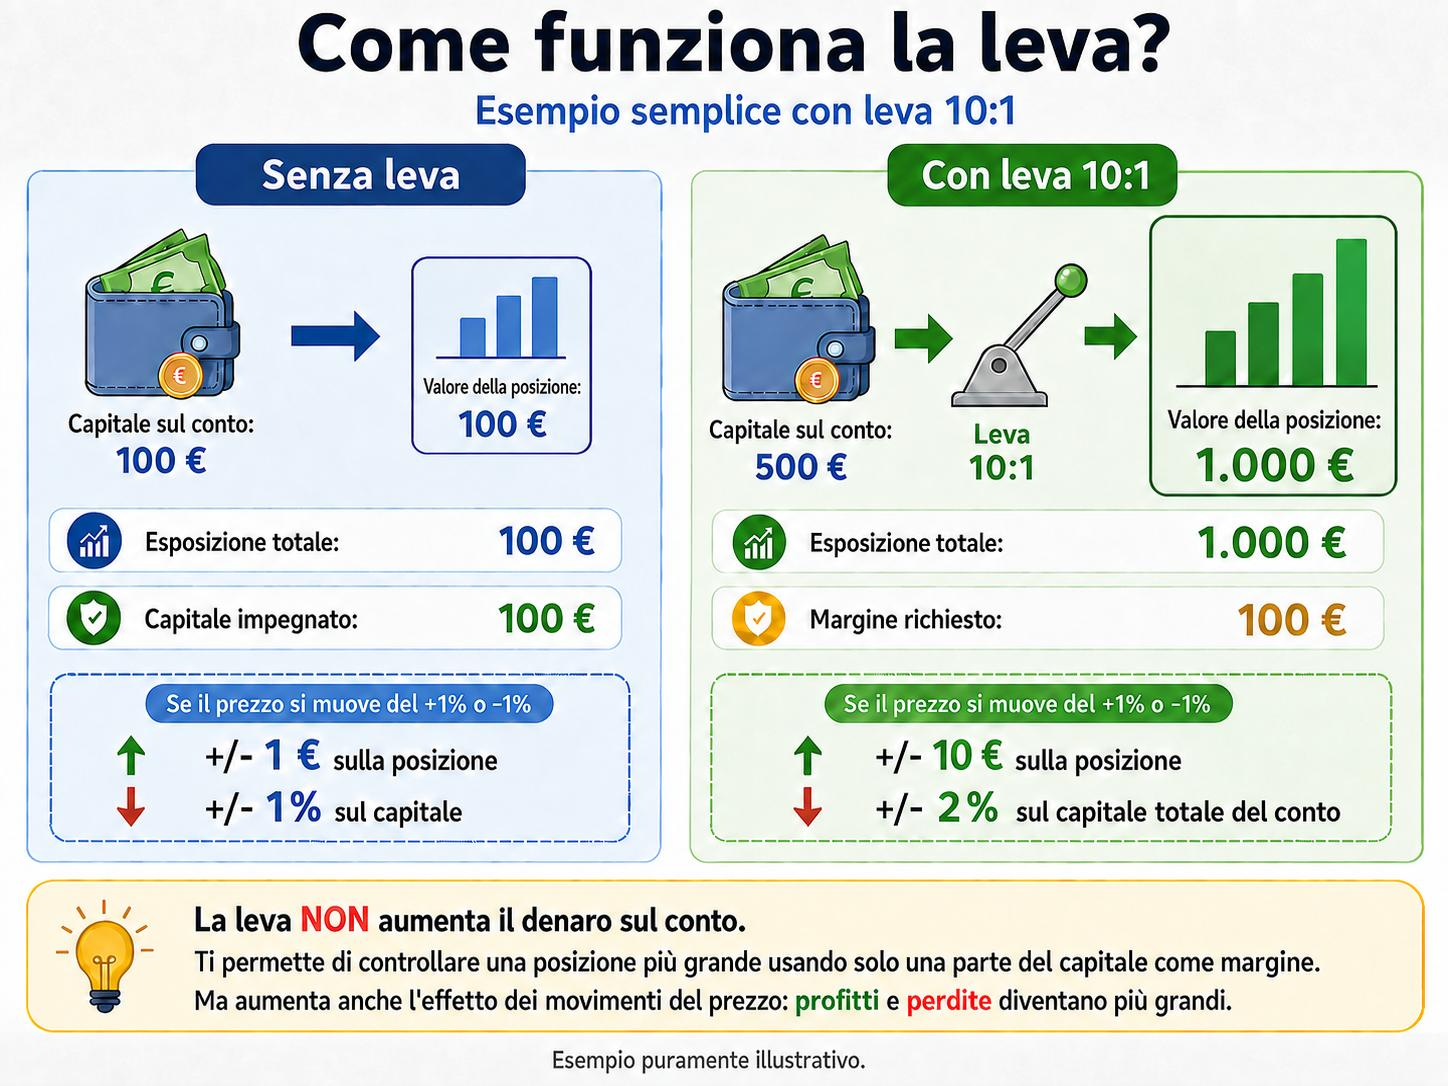
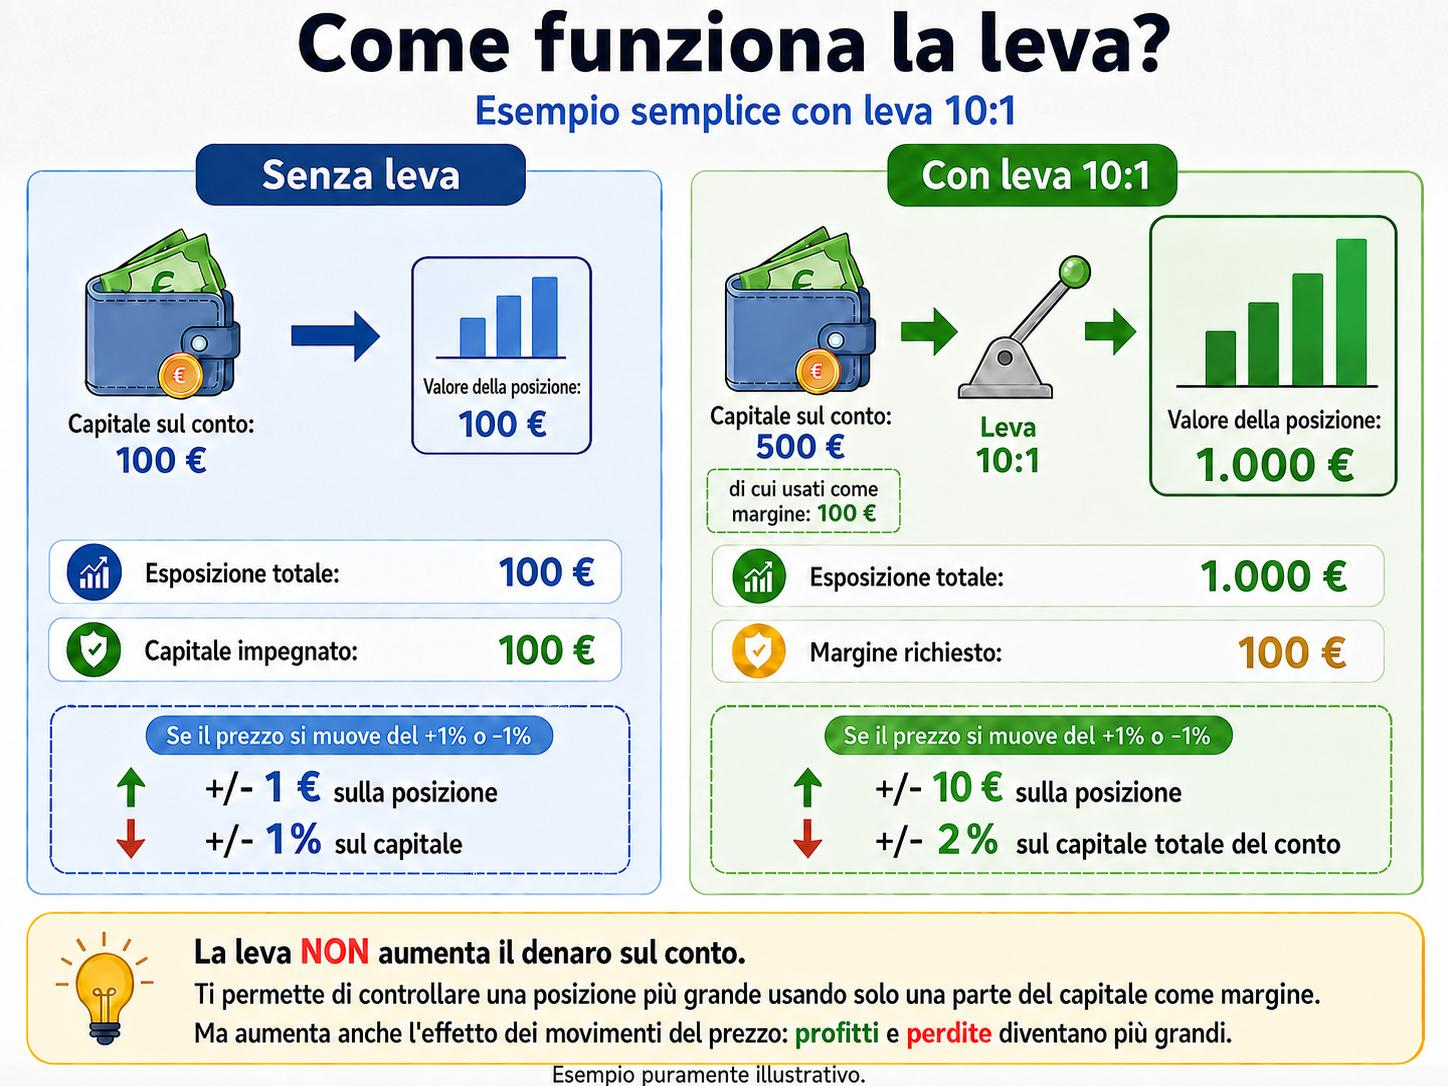
controlli e immagine leva

diff --git a/src/data/introExercises.js b/src/data/introExercises.js
@@ -61,32 +61,28 @@ cioè i massimi da cui si creano **nuovi minimi più bassi dei precedenti.**
   **5-Cosa puoi fare in una piattaforma come TradingView?** 👉 Nell'immagine: 3 ambienti.
     
       📊 **Osservare e analizzare:**
-Su una piattaforma grafica come TradingView puoi vedere il prezzo e disegnare un’entrata, uno Stop Loss o un Take Profit sul grafico, ma non significa aver aperto realmente un’operazione.
+Su una piattaforma grafica come TradingView puoi vedere il prezzo e disegnare un’entrata o un livello, ma non stai operando realmente.
 
  **Fare pratica in simulazione**
 Con un ambiente di paper trading/simulazione puoi invece provare ad aprire e chiudere operazioni utilizzando **denaro virtuale.** 
+Ad esempio, puoi utilizzare il Paper Trading di TradingView o un **conto demo** su una piattaforma di trading.
 
       **🏦 E quando vuoi operare realmente: il Broker**
-
-      Il broker è l’intermediario che ti permette di accedere al mercato con un conto di trading.
+      Il broker è una **società finanziaria che fa da intermediario fra te e il mercato**, permettendoti di accedere al mercato con un conto di trading. 
 Quando invii un ordine di acquisto o vendita, il broker ne gestisce l’esecuzione.
-
-Operare realmente significa che:
-1. apri un conto presso un broker e utilizzi capitale reale;
-2. attraverso una piattaforma invii un ordine di acquisto o vendita: se viene eseguito, hai una posizione reale e il suo risultato influirà sul saldo del conto.
 
       **6-Come puoi analizzare il mercato?** due modi di interpretare il mercato.
       🌐 **Analisi fondamentale** → guarda cosa può influenzare il mercato: economia, tassi d’interesse, inflazione, notizie ecc.
 📈 **Analisi tecnica** → guarda direttamente ciò che il prezzo sta facendo sul grafico: direzione, livelli e struttura.
 
-**Nei prossimi esercizi useremo soprattutto la seconda: imparerai a osservare un grafico e prendere una decisione passo dopo passo.**
+**Nei prossimi esercizi useremo soprattutto la seconda: imparerai a osservare un grafico e prendere una decisione.**
 
    **7 - Quanto può durare un'operazione?**
    
-Scalping: operazioni molto brevi, di pochi minuti.
-Intraday: operazioni aperte e chiuse nella stessa giornata.
-Swing: operazioni che possono durare più giorni.
-
+**Scalping:** operazioni molto brevi, di pochi minuti.
+**Intraday:** operazioni aperte e chiuse nella stessa giornata.
+**Swing:** operazioni mantenute per più giorni, a volte ancche settimane.
+**Position trading:** operazioni mantenute per settimane o mesi.
 **Il ragionamento sul grafico può essere utilizzato in tipi di operatività diversi:**cambiano soprattutto i tempi, i timeframe utilizzati e la gestione dell’operazione.
       `,
   },
@@ -97,14 +93,14 @@ Swing: operazioni che possono durare più giorni.
     block: 'Candele e prezzi · Quantità e rischio',
     question:
       ` **1 - Come interpretare le candele e il timeframe?**👉 Nell'immagine: candele e timeframe.
+     
       **Corpo della candela = parte colorata compresa tra Apertura e Chiusura**.
-
       Massimo = punto più alto raggiunto dalla candela  |  Minimo = punto più basso raggiunto dalla candela
       I tratti sottili sopra e sotto il corpo della candela rappresentano le **ombre (Wick)**.
 
       **Esempio con timeframe M5:** 
       alle 10:00 inizia una nuova candela; nei 5 minuti successivi il prezzo può salire e scendere e la candela può cambiare colore. Alle 10:05 la candela si chiude: se il prezzo è sopra quello di apertura è rialzista, se è sotto è ribassista.
-Il colore finale indica quindi quale pressione ha prevalso in quei 5 minuti: compratrice se la candela chiude rialzista, venditrice se chiude ribassista.
+Il colore finale indica quindi quale pressione ha prevalso in quei 5 minuti: **compratrice se la candela chiude rialzista (verde nell'immagine), venditrice se chiude ribassista (rossa nell'immagine).**
 
       **Come si sceglie il giusto timeframe?**⏰
   Non esiste un timeframe migliore in assoluto: dipende da cosa vuoi osservare.
@@ -115,9 +111,8 @@ Serve per capire l’andamento e il contesto generale.
 **Timeframe inferiore → “zoom” sul prezzo**
 Mostra lo stesso mercato in intervalli di tempo più brevi: permette di cercare una possibile conferma per l’ingresso.
 
-Un modo pratico:
-Come riferimento iniziale, puoi scendere a un timeframe circa **4–6 volte più breve.**
-Per esempio:
+Un modo pratico come riferimento iniziale:
+Puoi scendere a un timeframe circa **4–6 volte più breve.**
 **H4 → H1**
 **H1 → M15**
 
@@ -131,10 +126,10 @@ Per esempio:
 
      **Ask-Bid= Spread.** Generalmente **Ask > Bid**.
 
-    ** In pratica, lo spread è il divario tra compratori e venditori: **il prezzo a cui puoi comprare è leggermente diverso da quello a cui puoi vendere. Questa differenza rappresenta un piccolo **costo quando entri in un’operazione.**
+    ** Lo spread è il divario tra il prezzo a cui puoi comprare e quello a cui puoi vendere.** Questa differenza rappresenta un piccolo **costo quando entri in un’operazione.**
 
       🛍**3 - Quanto è facile trovare compratori e venditori? liquidità.**
-Quando invii un ordine, deve esserci una controparte dall’altra parte dello scambio: **più è facile trovarla a prezzi vicini a quello corrente, maggiore è la liquidità.**
+Quando invii un ordine, deve esserci una controparte dall’altra parte dello scambio: **più è facile trovarla a prezzi vicini a quelli attuali, maggiore è la liquidità.**
 Quindi in un mercato ad alta liquidità è più semplice entrare e uscire da un’operazione e gli spread tendono a essere più contenuti.
 
 **Esempio:** vuoi vendere un asset che in quel momento viene scambiato intorno a 10 €.
@@ -163,6 +158,9 @@ La quantità non si sceglie a caso: **più avanti vedremo come collegarla al ris
 
 **6 - Ma se 0,01 lotti sono già 1.000 €, significa che devo avere 1.000 € sul conto? la Leva**
 Non necessariamente. Con la leva, il broker richiede **solo una parte del valore della posizione, chiamata margine**.
+Broker/strumento → leva disponibile
+Tu → scegli la dimensione della posizione
+Piattaforma → calcola il margine
 
 Esempio semplice: se operi su una posizione da 1.000 € con una leva 10:1, il margine richiesto sarebbe circa 100 €.
 Ma attenzione: stai comunque operando su 1.000 €, non su 100 €. Per questo la leva può amplificare anche le perdite.

diff --git a/src/components/IntroExercises.jsx b/src/components/IntroExercises.jsx
@@ -79,8 +79,20 @@ function splitIntroStepATrendSection(feedbackText) {
     return null
   }
 
+  const trendBody = afterHeading.slice(0, nextSectionMatch.index)
+  const trendSectionPattern = /(?:^|\n)\s*(\*\*[^\n]*?:\s*\*\*[\s\S]*?)(?=(?:\n\s*\*\*[^\n]*?:\s*\*\*)|$)/g
+  const trendSections = Array.from(trendBody.matchAll(trendSectionPattern))
+    .map((match) => String(match[1] ?? '').trim())
+    .filter(Boolean)
+
+  if (trendSections.length < 2) {
+    return null
+  }
+
   return {
     beforeTrend,
+    trendUpSection: trendSections[0],
+    trendDownSection: trendSections[1],
     afterTrend: nextSectionMatch[1],
   }
 }
@@ -933,8 +945,7 @@ function IntroExercises() {
                     <div className="intro-trend-row">
                       <div className="intro-trend-copy">
                         <p className="intro-feedback-text">
-                          {renderIntroTextWithBold(`**Trend rialzista:** massimi e minimi si formano progressivamente più in alto.
-Ciò che fa da "impalcatura" al trend sono i **minimi strutturali:** i minimi da cui parte il movimento che crea nuovi massimi più alti dei precedenti.`)}
+                          {renderIntroTextWithBold(stepATrendFeedback.trendUpSection)}
                         </p>
                       </div>
                       <div className="intro-trend-visual">
@@ -949,8 +960,7 @@ Ciò che fa da "impalcatura" al trend sono i **minimi strutturali:** i minimi da
                     <div className="intro-trend-row">
                       <div className="intro-trend-copy">
                         <p className="intro-feedback-text">
-                          {renderIntroTextWithBold(`**Trend ribassista:** massimi e minimi si formano progressivamente più in basso.
-Ciò che fa da "impalcatura" al trend sono i **massimi strutturali:** i massimi da cui parte il movimento che crea nuovi minimi più bassi dei precedenti.`)}
+                          {renderIntroTextWithBold(stepATrendFeedback.trendDownSection)}
                         </p>
                       </div>
                       <div className="intro-trend-visual">

diff --git a/src/components/Profile.jsx b/src/components/Profile.jsx
@@ -156,7 +156,7 @@ function Profile({ onSave, onDelete }) {
           <div className="onboarding-hero">
             <h1 className="onboarding-title">
               <span></span>
-              <span className="gradient-text">Il primo prototipo di Percep</span>
+              <span className="gradient-text"> Prototipo Test di Percep</span>
             </h1>
             <p className="lead">
               <strong></strong>.

diff --git a/src/App.css b/src/App.css
@@ -2693,7 +2693,7 @@
 .intro-leverage-image {
   display: block;
   width: 100%;
-  max-width: 480px;
+  max-width: 3000px;
   height: auto;
   object-fit: contain;
   border-radius: 12px;
@@ -2843,7 +2843,7 @@
 .intro-trend-image {
   display: block;
   width: 100%;
-  max-width: 300px;
+  max-width: 650px;
   height: auto;
   object-fit: contain;
   border-radius: 12px;
